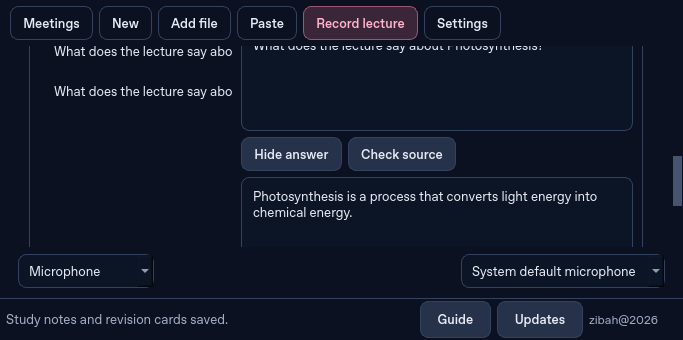
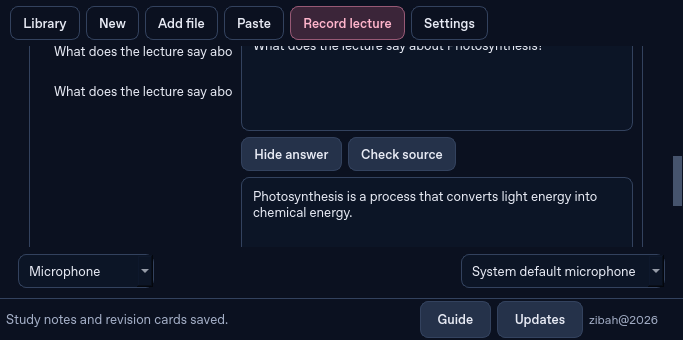
Polish lecture recording labels and shared library wording

Changed region(s): [[0.0307, 0.0, 0.7379, 0.1176]]

diff --git a/solscribe/presentation/storage.py b/solscribe/presentation/storage.py
@@ -12,7 +12,7 @@ class StorageActions:
         if self._is_busy() or self.record_timer.isActive() or not self.persist():
             return
         dialog = QDialog(self)
-        dialog.setWindowTitle('Your meetings')
+        dialog.setWindowTitle('Your library')
         dialog.resize(520, 360)
         layout = QVBoxLayout(dialog)
         items = QListWidget()
@@ -28,7 +28,7 @@ class StorageActions:
                 self.focus_tab(0)
                 dialog.accept()
         items.itemDoubleClicked.connect(choose)
-        button = QPushButton('Open meeting')
+        button = QPushButton('Open recording')
         button.clicked.connect(lambda: choose(items.currentItem()))
         layout.addWidget(button)
         dialog.exec()
@@ -42,7 +42,7 @@ class StorageActions:
         self._storage_worker = OperationWorker(operation, self)
         self._storage_worker.done.connect(self._storage_done)
         self._storage_worker.failed.connect(lambda details: self._show_error('Storage operation did not finish',
-            'Your current meeting data has been kept. Please check the destination and available space.', details))
+            'Your current library has been kept. Please check the destination and available space.', details))
         self._storage_worker.finished.connect(self._storage_finished)
         self.status_label.setText(message)
         self.progress.setRange(0, 0)
@@ -70,10 +70,10 @@ class StorageActions:
     def backup_meetings(self):
         if self._is_busy() or self.record_timer.isActive():
             return
-        path, _ = QFileDialog.getSaveFileName(self, 'Back up meetings', str(Path.home() / 'SolScribe-backup.zip'), 'SolScribe backup (*.zip)')
+        path, _ = QFileDialog.getSaveFileName(self, 'Back up library', str(Path.home() / 'SolScribe-backup.zip'), 'SolScribe backup (*.zip)')
         if path:
             store = self.store
-            self._storage_operation(lambda: store.backup_archive(Path(path)), 'Backing up meetings and app recordings…')
+            self._storage_operation(lambda: store.backup_archive(Path(path)), 'Backing up notes and app recordings…')
 
     def restore_meetings(self):
         if self._is_busy() or self.record_timer.isActive():
@@ -82,7 +82,7 @@ class StorageActions:
         if not path:
             return
         if QMessageBox.question(self, 'Restore this backup?',
-            'This replaces the current meeting library. A copy of your current database will be kept. Imported recordings remain linked to their original files.',
+            'This replaces the current library. A copy of your current database will be kept. Imported recordings remain linked to their original files.',
             QMessageBox.Yes | QMessageBox.No, QMessageBox.No) != QMessageBox.Yes:
             return
         self.player.stop()
@@ -93,15 +93,15 @@ class StorageActions:
     def delete_session(self):
         if self._is_busy() or self.record_timer.isActive() or not self.session_id or not self.persist():
             return
-        if QMessageBox.question(self, 'Move meeting to trash?',
-            'You can restore this meeting from Trash. Its recordings will be kept.',
+        if QMessageBox.question(self, 'Move to trash?',
+            'You can restore these notes from Trash. Their recordings will be kept.',
             QMessageBox.Yes | QMessageBox.No, QMessageBox.No) != QMessageBox.Yes:
             return
         try:
             self.player.stop()
             self.store.delete(self.session_id)
         except Exception as exc:
-            self._show_error('Could not move this meeting', 'Your meeting has been kept. Please try again.', exc)
+            self._show_error('Could not move these notes', 'Your work has been kept. Please try again.', exc)
             return
         self.session_id, self.current_session = None, None
         self.reload_library()
@@ -112,17 +112,17 @@ class StorageActions:
         if self._is_busy() or self.record_timer.isActive() or not self.persist():
             return
         dialog = QDialog(self)
-        dialog.setWindowTitle('Meeting trash')
+        dialog.setWindowTitle('Library trash')
         dialog.resize(620, 420)
         layout = QVBoxLayout(dialog)
-        hint = QLabel('Trashed meetings keep their recordings. Restore a meeting, or permanently remove its saved notes. Audio needs a separate confirmation.')
+        hint = QLabel('Trashed items keep their recordings. Restore an item, or permanently remove its saved notes. Audio needs a separate confirmation.')
         hint.setWordWrap(True)
         layout.addWidget(hint)
         items = QListWidget()
         layout.addWidget(items)
         buttons = QHBoxLayout()
-        restore = QPushButton('Restore meeting')
-        purge = QPushButton('Permanently remove meeting…')
+        restore = QPushButton('Restore item')
+        purge = QPushButton('Permanently remove item…')
         audio = QPushButton('Unused recordings…')
         for button in (restore, purge, audio):
             buttons.addWidget(button)
@@ -141,7 +141,7 @@ class StorageActions:
             selected = items.currentItem()
             if selected is None:
                 return
-            if permanent and QMessageBox.question(dialog, 'Permanently remove meeting?',
+            if permanent and QMessageBox.question(dialog, 'Permanently remove item?',
                 'Its notes and transcript cannot be restored from Trash afterward. Recordings will still be kept until separately removed.',
                 QMessageBox.Yes | QMessageBox.No, QMessageBox.No) != QMessageBox.Yes:
                 return
@@ -165,7 +165,7 @@ class StorageActions:
             QMessageBox.information(self, 'No unused app recordings', 'Referenced, imported and legacy recordings are protected.')
             return
         labels = [f'{Path(row["path"]).name} · {row["id"][:8]}' for row in rows]
-        selected, okay = QInputDialog.getItem(self, 'Unused app recordings', 'Choose an app-owned recording that no meeting or trash item uses:', labels, 0, False)
+        selected, okay = QInputDialog.getItem(self, 'Unused app recordings', 'Choose an app-owned recording that no saved item or trash item uses:', labels, 0, False)
         if not okay:
             return
         if QMessageBox.question(self, 'Permanently delete recording?', 'This audio cannot be recovered from the app afterward. Database-only backups do not contain audio.',

diff --git a/solscribe/ui.py b/solscribe/ui.py
@@ -294,7 +294,7 @@ class MainWindow(WindowLayout, StudyTools, HelpUpdates, ActionRegister, Transcri
         self.table.setUpdatesEnabled(True)
         self.resize_visible_rows()
         self.search_transcript.clear()
-        self.caption_status.setText('Your words are saved · record another meeting or create notes' if session['segments'] else 'Your transcript will appear below')
+        self.caption_status.setText('Your words are saved · create notes or start a new recording' if session['segments'] else 'Your transcript will appear below')
         for name, field in [('Summary', 'summary'), ('Minutes', 'minutes'), ('Memo', 'memo'), ('Action items', 'actions')]:
             self.doc_edits[name].setMarkdown(session.get(field) or '')
         self.load_actions(session.get('action_items', []))
@@ -343,7 +343,7 @@ class MainWindow(WindowLayout, StudyTools, HelpUpdates, ActionRegister, Transcri
             self.empty_title.setText('Your recording is ready.')
             self.empty_hint.setText('Choose Create transcript to turn the recording into words you can review and edit.')
         else:
-            self.empty_title.setText('Every meeting, clearly captured.')
+            self.empty_title.setText('Capture a lecture, one idea at a time.' if self.session_type() == 'lecture' else 'Every meeting, clearly captured.')
             self.empty_hint.setText('Record a conversation, add an audio or video file, or paste notes to get started.')
         for control in (self.capture_mode, self.system_combo, self.mic_combo, self.live_checkbox, self.live_model_combo, self.language_combo):
             control.setEnabled(not recording and not live_working)
@@ -379,7 +379,7 @@ class MainWindow(WindowLayout, StudyTools, HelpUpdates, ActionRegister, Transcri
         elif has_audio:
             hint = 'Next: click Create transcript to see the words in your recording.'
         else:
-            hint = 'Record a meeting or add a recording to begin.'
+            hint = 'Record or add a recording to begin.'
         if self._save_error:
             hint = 'Changes are not saved yet. Check available disk space and try again.'
         self.flow_hint.setText(hint)
@@ -432,7 +432,7 @@ class MainWindow(WindowLayout, StudyTools, HelpUpdates, ActionRegister, Transcri
         self.search_library.clear()
         self.reload_library(select_id=session_id)
         self.caption_status.setText('Example lecture · saved sample text, not live audio.' if self.session_type() == 'lecture' else 'Example meeting · sample text. Click Record meeting to capture your own words.')
-        self.statusBar().showMessage('Example meeting loaded. Try Create notes.', 8000)
+        self.statusBar().showMessage('Example lecture loaded. Try Create study notes.' if self.session_type() == 'lecture' else 'Example meeting loaded. Try Create notes.', 8000)
 
     def import_audio(self, path=None):
         if self._is_busy():
@@ -463,7 +463,7 @@ class MainWindow(WindowLayout, StudyTools, HelpUpdates, ActionRegister, Transcri
         if self.record_timer.isActive():
             return
         content, ok = QInputDialog.getMultiLineText(self, 'Paste existing words / notes',
-                            'Paste a transcript or meeting notes here:')
+                            'Paste a transcript or notes here:')
         if not ok or not content.strip():
             return
         if not self.persist():
@@ -632,7 +632,7 @@ class MainWindow(WindowLayout, StudyTools, HelpUpdates, ActionRegister, Transcri
                              'end': float(clock.data(Qt.UserRole + 1) or 0) if clock else 0.0,
                              'speaker': self.table.item(row, 1).text() if self.table.item(row, 1) else 'Speaker',
                              'text': self.table.item(row, 2).text() if self.table.item(row, 2) else ''})
-        new_title = self.title_edit.text().strip() or 'Untitled meeting'
+        new_title = self.title_edit.text().strip() or ('Untitled lecture' if self.session_type() == 'lecture' else 'Untitled meeting')
         try:
             self.store.update(self.session_id, title=new_title, segments=segments,
                               session_type=self.session_type(), study_notes=self.study_edit.toMarkdown().strip(), study_items=self.study_items,
@@ -685,7 +685,7 @@ class MainWindow(WindowLayout, StudyTools, HelpUpdates, ActionRegister, Transcri
         action.triggered.connect(lambda: self.export('md', section))
         action = more.addAction('Subtitles (.srt)')
         action.triggered.connect(lambda checked=False: self.export('srt', 'Transcript'))
-        action = more.addAction('All meeting data (.json)')
+        action = more.addAction('All recording data (.json)')
         action.triggered.connect(lambda checked=False: self.export('json', 'Transcript'))
         menu.exec(self.export_btn.mapToGlobal(self.export_btn.rect().bottomLeft()))
 

diff --git a/solscribe/presentation/layout.py b/solscribe/presentation/layout.py
@@ -51,7 +51,7 @@ class WindowLayout:
         brand_col = QVBoxLayout()
         brand_col.setSpacing(1)
         brand_col.addWidget(self._label('SolScribe', 'Brand'))
-        brand_col.addWidget(self._label('MEETING STUDIO', 'BrandTag'))
+        brand_col.addWidget(self._label('NOTES STUDIO', 'BrandTag'))
         brand_row.addLayout(brand_col)
         brand_row.addStretch(1)
         sidebar.addLayout(brand_row)
@@ -109,7 +109,7 @@ class WindowLayout:
         compact.setContentsMargins(10, 6, 10, 6)
         compact.setSpacing(6)
         self.compact_controls = []
-        for label, callback, original in [('Meetings', self.show_meetings, self.library),
+        for label, callback, original in [('Library', self.show_meetings, self.library),
                                            ('New', self.new_session, self.new_btn),
                                            ('Add file', self.import_audio, self.import_btn),
                                            ('Paste', self.paste_text, self.paste_btn)]:
@@ -465,7 +465,7 @@ class WindowLayout:
         advanced_toggle.toggled.connect(lambda checked: advanced_toggle.setArrowType(Qt.DownArrow if checked else Qt.RightArrow))
         settings_layout.addWidget(advanced)
         storage_row = QHBoxLayout()
-        for label, callback in [('Back up meetings', self.backup_meetings), ('Restore backup', self.restore_meetings), ('Trash', self.show_trash)]:
+        for label, callback in [('Back up library', self.backup_meetings), ('Restore backup', self.restore_meetings), ('Trash', self.show_trash)]:
             button = self._button(label, 'Plain')
             button.clicked.connect(callback)
             storage_row.addWidget(button)

diff --git a/solscribe/presentation/recording.py b/solscribe/presentation/recording.py
@@ -41,7 +41,7 @@ class RecordingActions:
         if self.current_session and (self.current_session.get('audio_path') or self.current_session.get('segments')):
             if not self.new_session():
                 return
-            self.title_edit.setText('Meeting · ' + datetime.now().strftime('%d %b %Y %H:%M'))
+            self.title_edit.setText(('Lecture · ' if self.session_type() == 'lecture' else 'Meeting · ') + datetime.now().strftime('%d %b %Y %H:%M'))
             self.persist()
         if not self.persist():
             return
@@ -72,7 +72,7 @@ class RecordingActions:
                               model='live' if live_enabled else '', audio_owned=True, recording_state='active', recording_pid=os.getpid(),
                               source_tracks=getattr(self.recorder, 'source_tracks', None))
             self.current_session = self.store.get(self.session_id)
-            self.audio_name.setText('Recording this meeting…')
+            self.audio_name.setText('Recording this lecture…' if self.session_type() == 'lecture' else 'Recording this meeting…')
             self.playback_controls.hide()
             if live_enabled:
                 model = self.live_model_combo.currentData()

diff --git a/tests/test_lecture.py b/tests/test_lecture.py
@@ -280,3 +280,24 @@ def test_lecture_mode_at_laptop_sizes(window, app, size, theme):
     window.work_scroll.ensureWidgetVisible(window.study_tabs)
     assert window.study_edit.viewport().height() >= 100
     assert window.credit_label.isVisible()
+
+
+def test_recording_after_lecture_sample_keeps_purpose_and_original(window, monkeypatch):
+    import numpy as np
+    from test_live_ui import install_fake_audio
+    window.mode_combo.setCurrentIndex(1)
+    window.load_demo()
+    original_id = window.session_id
+    original = copy.deepcopy(window.current_session['segments'])
+    install_fake_audio(monkeypatch, np.zeros(1600, dtype=np.int16), object)
+    window.live_checkbox.setChecked(False)
+    window.toggle_record()
+    assert window.record_timer.isActive()
+    assert not window.mode_combo.isEnabled()
+    assert window.current_session['session_type'] == 'lecture'
+    assert window.current_session['title'].startswith('Lecture · ')
+    assert window.session_id != original_id
+    window.toggle_record()
+    until(lambda: not window._stopping_active)
+    assert window.record_btn.text() == 'Record lecture'
+    assert window.store.get(original_id)['segments'] == original

diff --git a/solscribe/presentation/help_updates.py b/solscribe/presentation/help_updates.py
@@ -113,7 +113,7 @@ class HelpUpdates:
             if guide.practice.isChecked():
                 self.load_demo()
                 self.focus_tab(0)
-                self.statusBar().showMessage('Sample text is ready. Try Create notes, then Save a copy. Record meeting captures your own speech.', 15000)
+                self.statusBar().showMessage('Sample text is ready. Create notes or study notes, then Save a copy. Record captures your own speech.', 15000)
         self._guide = None
         guide.deleteLater()
 

diff --git a/README.md b/README.md
@@ -58,7 +58,7 @@ Imported files are linked in place. Keep the original files. Legacy recordings h
 
 **Delete meeting** moves it to trash without deleting audio. Settings provides trash recovery, permanently removing trashed metadata, and a separate confirmed operation for unused SolScribe-owned audio. Audio referenced by any active or trashed meeting is protected. Uninstall removes the application, not the meeting library.
 
-Use **Settings → Back up meetings** for a ZIP containing a consistent database snapshot and owned audio with checksums. Imported audio stays linked and is not copied into that archive. Automatic snapshots preserve the latest five database copies; they do not copy audio. Keep periodic full archives on another drive.
+Use **Settings → Back up library** for a ZIP containing a consistent database snapshot and owned audio with checksums. Imported audio stays linked and is not copied into that archive. Automatic snapshots preserve the latest five database copies; they do not copy audio. Keep periodic full archives on another drive.
 
 Restore accepts a backup ZIP or database snapshot (`.db`) and preserves the previous database. DB-only restores require the original audio paths to remain accessible. Invalid archives and damaged transcript structures are rejected before replacement. If startup fails because the database is damaged, the startup dialog offers backup recovery. Failed writes keep edits open and retain a draft when disk space permits. Interrupted, known-owned PCM recordings can recover complete frames already written; audio never written to disk cannot be reconstructed.
 
